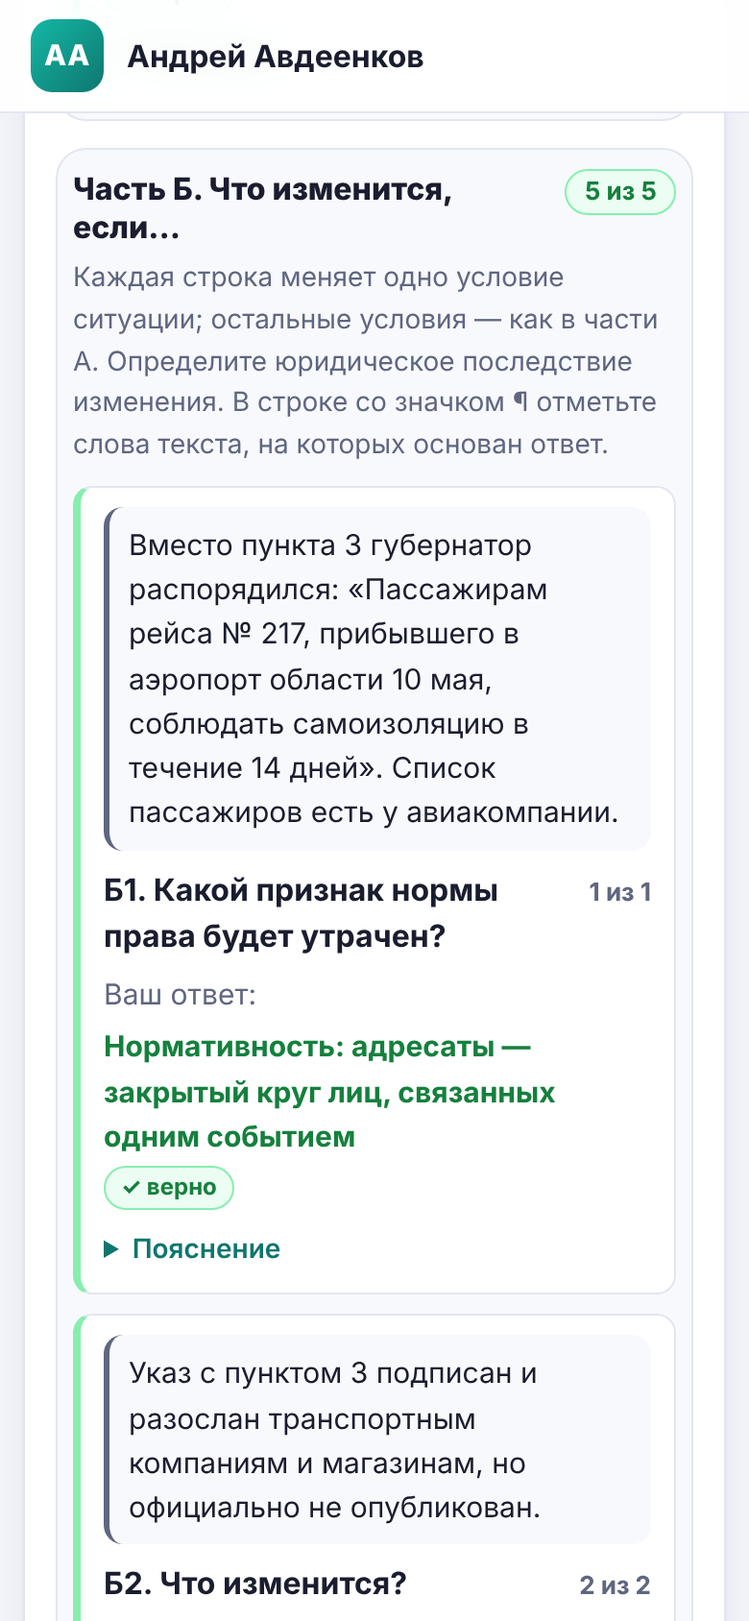
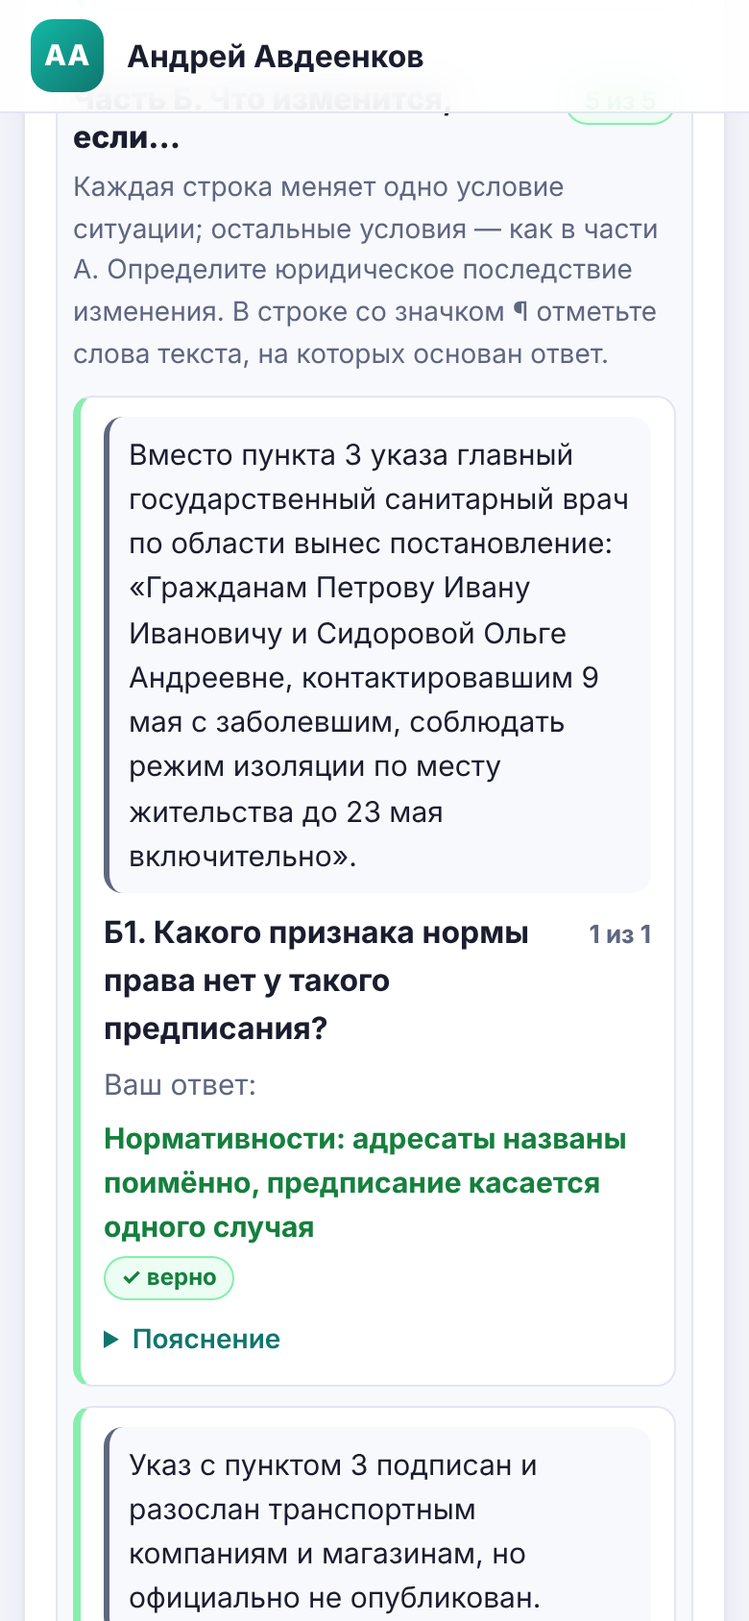
I-1: Б1 — поимённое предписание по единичному случаю, Б3 — только о значении подачи иска; I-3: ключ П3/П4 — норма ст. 12 ч. 4, а не вводная часть; мобильная панель «Ситуация и нормы»
Claude-Session: https://claude.ai/code/session_01DtU1BYdzbcua2RQZXHQm1D

Changed region(s): [[0.0923, 0.0616, 0.8923, 1.0], [0.8, 0.5237, 0.8615, 0.5853], [0.7692, 0.955, 0.8615, 0.9858]]

diff --git a/work/law-nrm/mandatory.js b/work/law-nrm/mandatory.js
@@ -185,22 +185,22 @@ OLY.addTasks([
         ],
         rows: [
           {
-            id: 'b1', short: 'Б1. Пассажиры рейса', shuffle: true, component: 'R',
-            context: 'Вместо пункта 3 губернатор распорядился: «Пассажирам рейса № 217, прибывшего в аэропорт области 10 мая, соблюдать самоизоляцию в течение 14 дней». Список пассажиров есть у авиакомпании.',
-            label: 'Б1. Какой признак нормы права будет утрачен?',
+            id: 'b1', short: 'Б1. Поимённое предписание', shuffle: true, component: 'R',
+            context: 'Вместо пункта 3 указа главный государственный санитарный врач по области вынес постановление: «Гражданам Петрову Ивану Ивановичу и Сидоровой Ольге Андреевне, контактировавшим 9 мая с заболевшим, соблюдать режим изоляции по месту жительства до 23 мая включительно».',
+            label: 'Б1. Какого признака нормы права нет у такого предписания?',
             options: [
-              'Нормативность: адресаты — закрытый круг лиц, связанных одним событием',
-              'Ничего не изменится: предписание по-прежнему адресовано многим лицам',
-              'Общеобязательность: пассажиры не давали согласия на самоизоляцию',
-              'Формальная определённость: в предписании не перечислены фамилии'
+              'Нормативности: адресаты названы поимённо, предписание касается одного случая',
+              'Ни одного: предписание издано органом власти в официальной форме',
+              'Общеобязательности: адресаты не давали согласия на изоляцию',
+              'Формальной определённости: в постановлении не указана санкция'
             ],
             key: [0],
             wrong: {
-              1: { short: 'Нормативность определяет не число адресатов, а способ их определения: здесь круг закрыт и может быть установлен поимённо.', full: 'Пассажиров рейса может быть много, но их круг исчерпан одним событием и устанавливается по списку. Новые лица в него не войдут, предписание исполняется один раз — это индивидуальное предписание к группе лиц.' },
-              2: 'Согласие адресатов не требуется ни для нормативного, ни для индивидуального предписания.',
-              3: 'Отсутствие фамилий не делает предписание неопределённым: круг лиц точно устанавливается по списку пассажиров. Утрачивается общий характер.'
+              1: { short: 'Орган и форма акта не определяют нормативность: в официальной форме издаются и нормативные, и индивидуальные акты.', full: 'Постановление издано уполномоченным лицом и оформлено официально, но адресовано двум поимённо названным гражданам по одному случаю — контакту 9 мая — и исчерпывается исполнением до 23 мая. Это индивидуальное предписание (акт применения права), а не норма.' },
+              2: 'Согласие адресатов не требуется ни для нормы, ни для индивидуального предписания: обязательность у постановления есть.',
+              3: 'Неверно по существу: санкция не обязана быть в том же акте, а содержание предписания определено точно — кто, где и до какого срока.'
             },
-            explanation: 'Адресаты определены не родовым признаком, а участием в одном событии (рейс № 217, 10 мая), и могут быть перечислены поимённо. Круг закрыт: новые лица в него не войдут. Значит, предписание утрачивает нормативность и становится индивидуальным, хотя адресатов много. Граница интерпретации: в литературе такие акты иногда называют «актами с ограниченным кругом адресатов» и спорят о их природе; по определению из условия решает способ определения адресатов.'
+            explanation: 'Адресаты названы поимённо, предписание касается одного случая (контакт с заболевшим 9 мая) и исчерпывается исполнением — изоляцией до 23 мая. Общего правила для неопределённого круга лиц и случаев здесь нет: это индивидуальное предписание. Обязательность и определённость содержания у него есть; отсутствует именно нормативность.'
           },
           {
             id: 'b2', short: 'Б2. Нет опубликования', shuffle: true, component: 'R',
@@ -230,22 +230,22 @@ OLY.addTasks([
             }
           },
           {
-            id: 'b3', short: 'Б3. Иск в суд', shuffle: true, component: 'R',
-            context: 'К. подал в суд административное исковое заявление о признании пункта 3 недействующим. Дело ещё не рассмотрено, мер предварительной защиты суд не принимал. К. снова едет в автобусе без маски.',
-            label: 'Б3. Как подача иска влияет на обязанность К.?',
+            id: 'b3', short: 'Б3. Подача иска', shuffle: true, component: 'R',
+            context: 'К. подал в суд административное исковое заявление о признании пункта 3 недействующим. На следующий день он снова едет в автобусе без маски. Решения по делу ещё нет; мер предварительной защиты суд не принимал; указ не отменён и не изменён.',
+            label: 'Б3. Освобождает ли К. от обязанности сама подача иска?',
             options: [
-              'Обязанность сохраняется, пока пункт не признан недействующим',
-              'Обязанность приостановлена для К. со дня подачи иска',
-              'Обязанность приостановлена для всех до решения суда',
-              'Обязанность возникнет, только если суд отклонит иск'
+              'Нет: сама подача иска не приостанавливает действие пункта 3',
+              'Да: для истца пункт приостановлен со дня подачи иска',
+              'Да: пункт приостановлен для всех до решения суда',
+              'Нет, но только если суд впоследствии отклонит иск'
             ],
             key: [0],
             wrong: {
-              1: { short: 'Подача иска сама по себе не приостанавливает действие нормативного акта, в том числе для истца.', full: 'Запретить применять оспариваемый акт к истцу может только суд, приняв меру предварительной защиты. По условию таких мер нет, поэтому обязанность К. сохраняется.' },
-              2: 'Действие нормативного акта прекращается его отменой или решением суда, вступившим в силу, а не подачей иска.',
-              3: 'Обязанность действует уже сейчас и не зависит от будущего решения суда.'
+              1: { short: 'Подача иска сама по себе не приостанавливает действие нормативного акта, в том числе для истца.', full: 'Запретить применять оспариваемый акт к истцу до решения может только суд, приняв меру предварительной защиты. По условию таких мер нет.' },
+              2: 'Подача иска одним гражданином не приостанавливает действие акта ни для него, ни для других адресатов.',
+              3: 'На день поездки обязанность уже действовала; вопрос задачи — о значении самой подачи иска, а не о будущем решении суда.'
             },
-            explanation: 'Общеобязательность не зависит от несогласия адресата, в том числе выраженного в иске. Нормативный акт действует, пока его не отменил издавший орган или суд не признал его недействующим. Подача иска действие акта не приостанавливает. Запретить применять акт к истцу до решения может только суд, приняв меру предварительной защиты, — по условию её нет.'
+            explanation: 'Общеобязательность не зависит от несогласия адресата, в том числе выраженного в иске. По условию на день поездки есть только поданный иск: решения нет, мер предварительной защиты суд не принимал, указ не отменён. Сама подача иска действие пункта 3 не приостанавливает, поэтому обязанность К. в этот день сохраняется. Как повлияет на неё будущее решение суда, задача не спрашивает.'
           },
           {
             id: 'b4', short: 'Б4. Без ответственности', shuffle: true, component: 'R',
@@ -314,7 +314,8 @@ OLY.addTasks([
         fragments: [
           { id: 'e7', text: 'Локальный нормативный акт вступает в силу со дня его принятия работодателем либо со дня, указанного в этом локальном нормативном акте,' }, { text: ' ' },
           { id: 'e8', text: 'и применяется к отношениям, возникшим после введения его в действие.' }, { text: ' ' },
-          { id: 'e9', text: 'В отношении отношений, возникших до введения в действие локального нормативного акта, указанный акт применяется к правам и обязанностям, возникшим после введения его в действие.' }
+          { id: 'e9a', text: 'В отношении отношений, возникших до введения в действие локального нормативного акта,' }, { text: ' ' },
+          { id: 'e9', text: 'указанный акт применяется к правам и обязанностям, возникшим после введения его в действие.' }
         ]
       },
       {
@@ -490,6 +491,7 @@ OLY.addTasks([
               key: ['e9'], max: 2,
               explanation: 'Ст. 12 ч. 4 ТК: к отношениям, возникшим до введения ЛНА, он «применяется к правам и обязанностям, возникшим после введения его в действие».',
               wrong: {
+                e9a: { short: 'Это только вводная часть предложения: она называет, о каких отношениях идёт речь, но не говорит, к чему акт применяется.', full: 'Правило содержится во второй части предложения: акт «применяется к правам и обязанностям, возникшим после введения его в действие». Вводную часть можно отметить вместе с ней, но одна она вывод не доказывает.' },
                 e8: 'Этот фрагмент — об отношениях, возникших после введения акта; отношения с Л. возникли в 2021 году, поэтому решает следующее предложение.',
                 e7: 'Этот фрагмент — о моменте вступления акта в силу; он не отвечает, применяется ли акт к ранее возникшим отношениям.',
                 e14: 'Ст. 60 запрещает требовать работу вне трудовой функции, а по условию отчёт входит в трудовую функцию; основание вывода — ст. 12 ч. 4.'
@@ -511,8 +513,9 @@ OLY.addTasks([
             explanation: 'Право на суточные возникает в связи с конкретной командировкой — за дни нахождения в ней (ст. 168 ТК). Командировка была 10–14 февраля, до введения изменения. По ст. 12 ч. 4 ТК к отношениям, возникшим до введения ЛНА, он применяется только к правам и обязанностям, возникшим после введения. Значит, новый размер к февральской командировке не применяется, хотя он выгоднее работнику. Граница интерпретации: может ли работодатель сам указать в ЛНА, что улучшающее положение распространяется на прошлые периоды, — вопрос за рамками задания; по условию Положение этого не предусматривает.',
             evidence: {
               key: ['e9'], max: 2,
-              explanation: 'Ст. 12 ч. 4 ТК: к ранее возникшим отношениям акт «применяется к правам и обязанностям, возникшим после введения его в действие». Право на февральские суточные возникло до 1 марта.',
+              explanation: 'Ст. 12 ч. 4 ТК, второе предложение: к отношениям, возникшим до введения акта, он «применяется к правам и обязанностям, возникшим после введения его в действие». Право на февральские суточные возникло до 1 марта, поэтому под это правило не подпадает.',
               wrong: {
+                e9a: { short: 'Это только вводная часть предложения: правило о правах, возникших после введения акта, — во второй его части.', full: 'Вводная часть указывает на отношения, возникшие до введения акта (это наш случай), но вывод следует из второй части: акт «применяется к правам и обязанностям, возникшим после введения его в действие». Право на февральские суточные возникло до 1 марта, поэтому новый размер к нему не применяется. Вводную часть можно отметить вместе со второй, но одна она вывод не доказывает.' },
                 e8: 'Трудовые отношения с работником возникли до 1 марта, поэтому решает второе предложение — о правах, возникших после введения акта.',
                 e7: 'Этот фрагмент — о моменте вступления акта в силу; сам по себе он не отвечает, применяется ли акт к ранее возникшим правам.'
               }

diff --git a/css/olymp-nrm.css b/css/olymp-nrm.css
@@ -480,18 +480,22 @@
   .nrm-split .nrm-ctxbtn { display: none; }
 }
 
-/* Диалог «Ситуация и нормы» (узкий экран). */
+/* Диалог «Ситуация и нормы» (узкий экран): занимает почти весь экран и перекрывает нижнюю
+   панель ответов; заголовок с кнопкой «Закрыть» всегда виден, прокручивается только содержимое. */
 .nrm-ctxdlg {
-  width: min(680px, calc(100vw - 16px)); max-height: 80vh; padding: 0;
-  border: 1px solid var(--border); border-radius: var(--radius); background: var(--bg, var(--surface)); color: var(--text);
+  width: min(680px, calc(100vw - 16px)); height: min(820px, calc(100dvh - 16px)); max-height: none; max-width: none;
+  margin: auto; padding: 0; overflow: hidden;
+  border: 1px solid var(--border); border-radius: var(--radius); background: var(--surface); color: var(--text);
 }
-.nrm-ctxdlg::backdrop { background: rgba(10, 12, 30, 0.45); }
+.nrm-ctxdlg[open] { display: flex; flex-direction: column; }
+.nrm-ctxdlg::backdrop { background: rgba(10, 12, 30, 0.6); }
 .nrm-ctxdlg__bar {
-  position: sticky; top: 0; z-index: 1; display: flex; justify-content: space-between; align-items: center; gap: 8px;
+  flex: none; display: flex; justify-content: space-between; align-items: center; gap: 8px;
   padding: 8px 12px; border-bottom: 1px solid var(--border); background: var(--surface);
 }
-.nrm-ctxdlg__body { padding: 12px; }
+.nrm-ctxdlg__body { flex: 1 1 auto; min-height: 0; overflow-y: auto; overscroll-behavior: contain; padding: 12px; -webkit-overflow-scrolling: touch; }
 .nrm-ctxdlg__content { display: flex; flex-direction: column; gap: 12px; }
+html.nrm-ctx-open { overflow: hidden; }
 .nrm-split__aside:focus-visible { outline: 3px solid var(--focus); outline-offset: 2px; }
 /* В нижней панели три элемента: на узком экране кнопки переносятся на вторую строку. */
 .nrm-split .nrm-fillbar { flex-wrap: wrap; }

diff --git a/js/olymp/ui/views/nrm-common.js b/js/olymp/ui/views/nrm-common.js
@@ -40,7 +40,9 @@
 
   function quote(text) {
     var t = String(text).trim().replace(/[\s,.;:]+$/, '');
-    return '«' + (t.length > 60 ? t.slice(0, 57) + '…' : t) + '»';
+    // Фрагмент-доказательство показывается целиком до 110 знаков: по началу длинного предложения
+    // нельзя понять, отмечена ли его решающая часть.
+    return '«' + (t.length > 110 ? t.slice(0, 107) + '…' : t) + '»';
   }
 
   /** Короткая метка строки для указателя ошибок: «4б» из «4б. По способу…». */
@@ -176,10 +178,13 @@
       dlg.appendChild(body);
       dlg.addEventListener('click', function (e) { if (e.target === dlg) dlg.close(); });
       dlg.addEventListener('close', function () {
+        document.documentElement.classList.remove('nrm-ctx-open');
         dlg.remove();
         btn.focus({ preventScroll: true });
       });
       document.body.appendChild(dlg);
+      // Страница под диалогом не прокручивается: прокручивается только его содержимое.
+      document.documentElement.classList.add('nrm-ctx-open');
       if (dlg.showModal) dlg.showModal(); else dlg.setAttribute('open', '');
       close.focus({ preventScroll: true });
     });

diff --git a/docs/drafts/pr-law-nrm-restructure.md b/docs/drafts/pr-law-nrm-restructure.md
@@ -95,7 +95,7 @@
    - в Б2 — отдельный вопрос: содержание остаётся определённым, но применять акт к гражданам нельзя (ст. 15 ч. 3 Конституции).
    Доказательство в Б2 засчитывается только по третьему предложению ч. 3: первые два относятся к законам, а указ — не закон.
 4. II-1 и II-2 не дублируются:
-   - нормативность проверяется на признаках, которых нет в II-1: повод издания и временный характер правила (А1), закрытый круг лиц, связанных одним событием (Б1);
+   - нормативность проверяется на признаках, которых нет в II-1: повод издания и временный характер правила (А1), поимённо определённые адресаты в единичном случае при официальной форме акта (Б1);
    - общеобязательность проверяется через основание обязательности в законе (А2) и через то, что подача иска не приостанавливает действие акта (Б3). Довода «узкий круг адресатов → не общеобязательна» (материал II-2) нет.
 
 **Формат:** составное задание с двухколоночной раскладкой (`layout: 'split'`). Часть Б открывается после фиксации части А. Текст ст. 15 Конституции появляется только вместе с частью Б; тест проверяет, что доказательство в части А на него ссылаться не может. **Уровень:** 2. **Время (расчёт):** ≈11,5 мин.
@@ -114,15 +114,14 @@
 | А2 | Общеобязательность: на чём основана | правило введено по полномочию из закона, согласие адресатов не нужно | № 68-ФЗ: «обязательные для исполнения гражданами и организациями правила поведения» | К + Т |
 | А3 | Формальная определённость: в чём проявляется | точно указаны адресаты, места, начало действия и поведение (опубликование — неверный ответ) | — | К |
 | А4 | Государственное обеспечение при отсутствии санкции в указе | ответственность по ст. 20.6.1 КоАП | ст. 20.6.1 ч. 1 (любой из двух фрагментов) | К + Т |
-| Б1 | Предписание пассажирам рейса № 217 | утрачивается нормативность: закрытый круг лиц, связанных одним событием | — | Р |
+| Б1 | Постановление санитарного врача: двум поимённо названным гражданам, контактировавшим 9 мая с заболевшим, соблюдать изоляцию до 23 мая | нет нормативности: адресаты названы поимённо, предписание касается одного случая | — | Р |
 | Б2 | Указ не опубликован | содержание остаётся определённым, но применять к гражданам нельзя | ст. 15 ч. 3 Конституции, третье предложение | Р + Т |
-| Б3 | К. подал иск о признании п. 3 недействующим; мер предварительной защиты нет | обязанность сохраняется, пока пункт не признан недействующим | — | Р |
+| Б3 | К. подал иск о признании п. 3 недействующим; на следующий день решения нет, мер предварительной защиты нет, указ не отменён | нет: сама подача иска не приостанавливает действие п. 3 (о будущем решении суда задача не спрашивает) | — | Р |
 | Б4 | *Гипотетически:* ст. 20.6.1 нет, но полиция вправе не допускать в транспорт | обеспечение сохраняется: мера принуждения без ответственности | — | Р |
 
 **Баллы:** К 4 · Т 4 · Р 4 = **12**.
 
 **Границы интерпретации (в разборе):**
-- Б1 — о природе актов с ограниченным кругом адресатов;
 - Б2 — о подходе, включающем опубликование в формальную определённость;
 - Б4 — о спорности норм вовсе без мер принуждения; в задаче мера принуждения есть, поэтому спор не затрагивается.
 
@@ -166,6 +165,14 @@
 
 **Раздел Б:** общая шкала вариантов с правилом «решающее — первое препятствие: лицо → компетенция → время → прекращение действия». Ключи 1, 2, 0, 3, 4, 0: встречаются все варианты.
 
+### Корректировки после приёмки (версия 3)
+
+- **Б1:** вместо пассажиров рейса — постановление санитарного врача о двух поимённо названных гражданах по одному случаю. Утверждение «адресация пассажирам одного рейса сама по себе исключает нормативность» из задания убрано.
+- **Б3:** вопрос и ключ сформулированы только о значении самой подачи иска на день поездки (решения нет, мер предварительной защиты нет, указ не отменён). Будущее решение суда в выводе не затрагивается.
+- **I-3, П4 (и П3):** предложение ст. 12 ч. 4 разделено на вводную часть («В отношении отношений, возникших до введения…») и норму («указанный акт применяется к правам и обязанностям, возникшим после введения его в действие»). Ключ — норма. Одна вводная часть — ошибка с объяснением; вводная часть вместе с нормой засчитывается. В разборе фрагменты показываются целиком (до 110 знаков вместо 60), чтобы было видно, какая часть отмечена.
+- **Мобильная панель «Ситуация и нормы»:** диалог занимает почти весь экран и перекрывает нижнюю панель ответов; заголовок с кнопкой «Закрыть» закреплён, прокручивается только содержимое; страница под диалогом не прокручивается. Проверено на 360 × 640 (обе задачи, тёмная и светлая темы) и 390 × 844.
+- **Время:** I-3 не сокращается (решение после пилота).
+
 ## 5. Интерфейс: ситуация рядом с вопросами (внедрено)
 
 - **Эпизод в карточке** (`row.context`). Текст эпизода печатается над вопросом в карточке строки — и при решении, и в разборе. Юридические условия не сокращаются: карточка может быть длиннее экрана телефона.
@@ -180,7 +187,7 @@
 - axe — без новых нарушений;
 - `npm test` — 267 из 267.
 
-**Время.** Обязательная часть по расчёту ≈89 мин — у верхней границы коридора. Если пилотный замер покажет больше 90 минут, первым кандидатом на сокращение предлагается I-3: можно убрать П1 или П6. Это −1 балл и ≈1 мин. Без вашего решения состав I-3 не меняю.
+**Время.** Обязательная часть по расчёту ≈89 мин — у верхней границы коридора. Решение преподавателя: I-3 не сокращается (все строки, 17 баллов); вопрос о сокращении — только после пилотного прохождения учениками.
 
 ## 6. Что осталось
 
